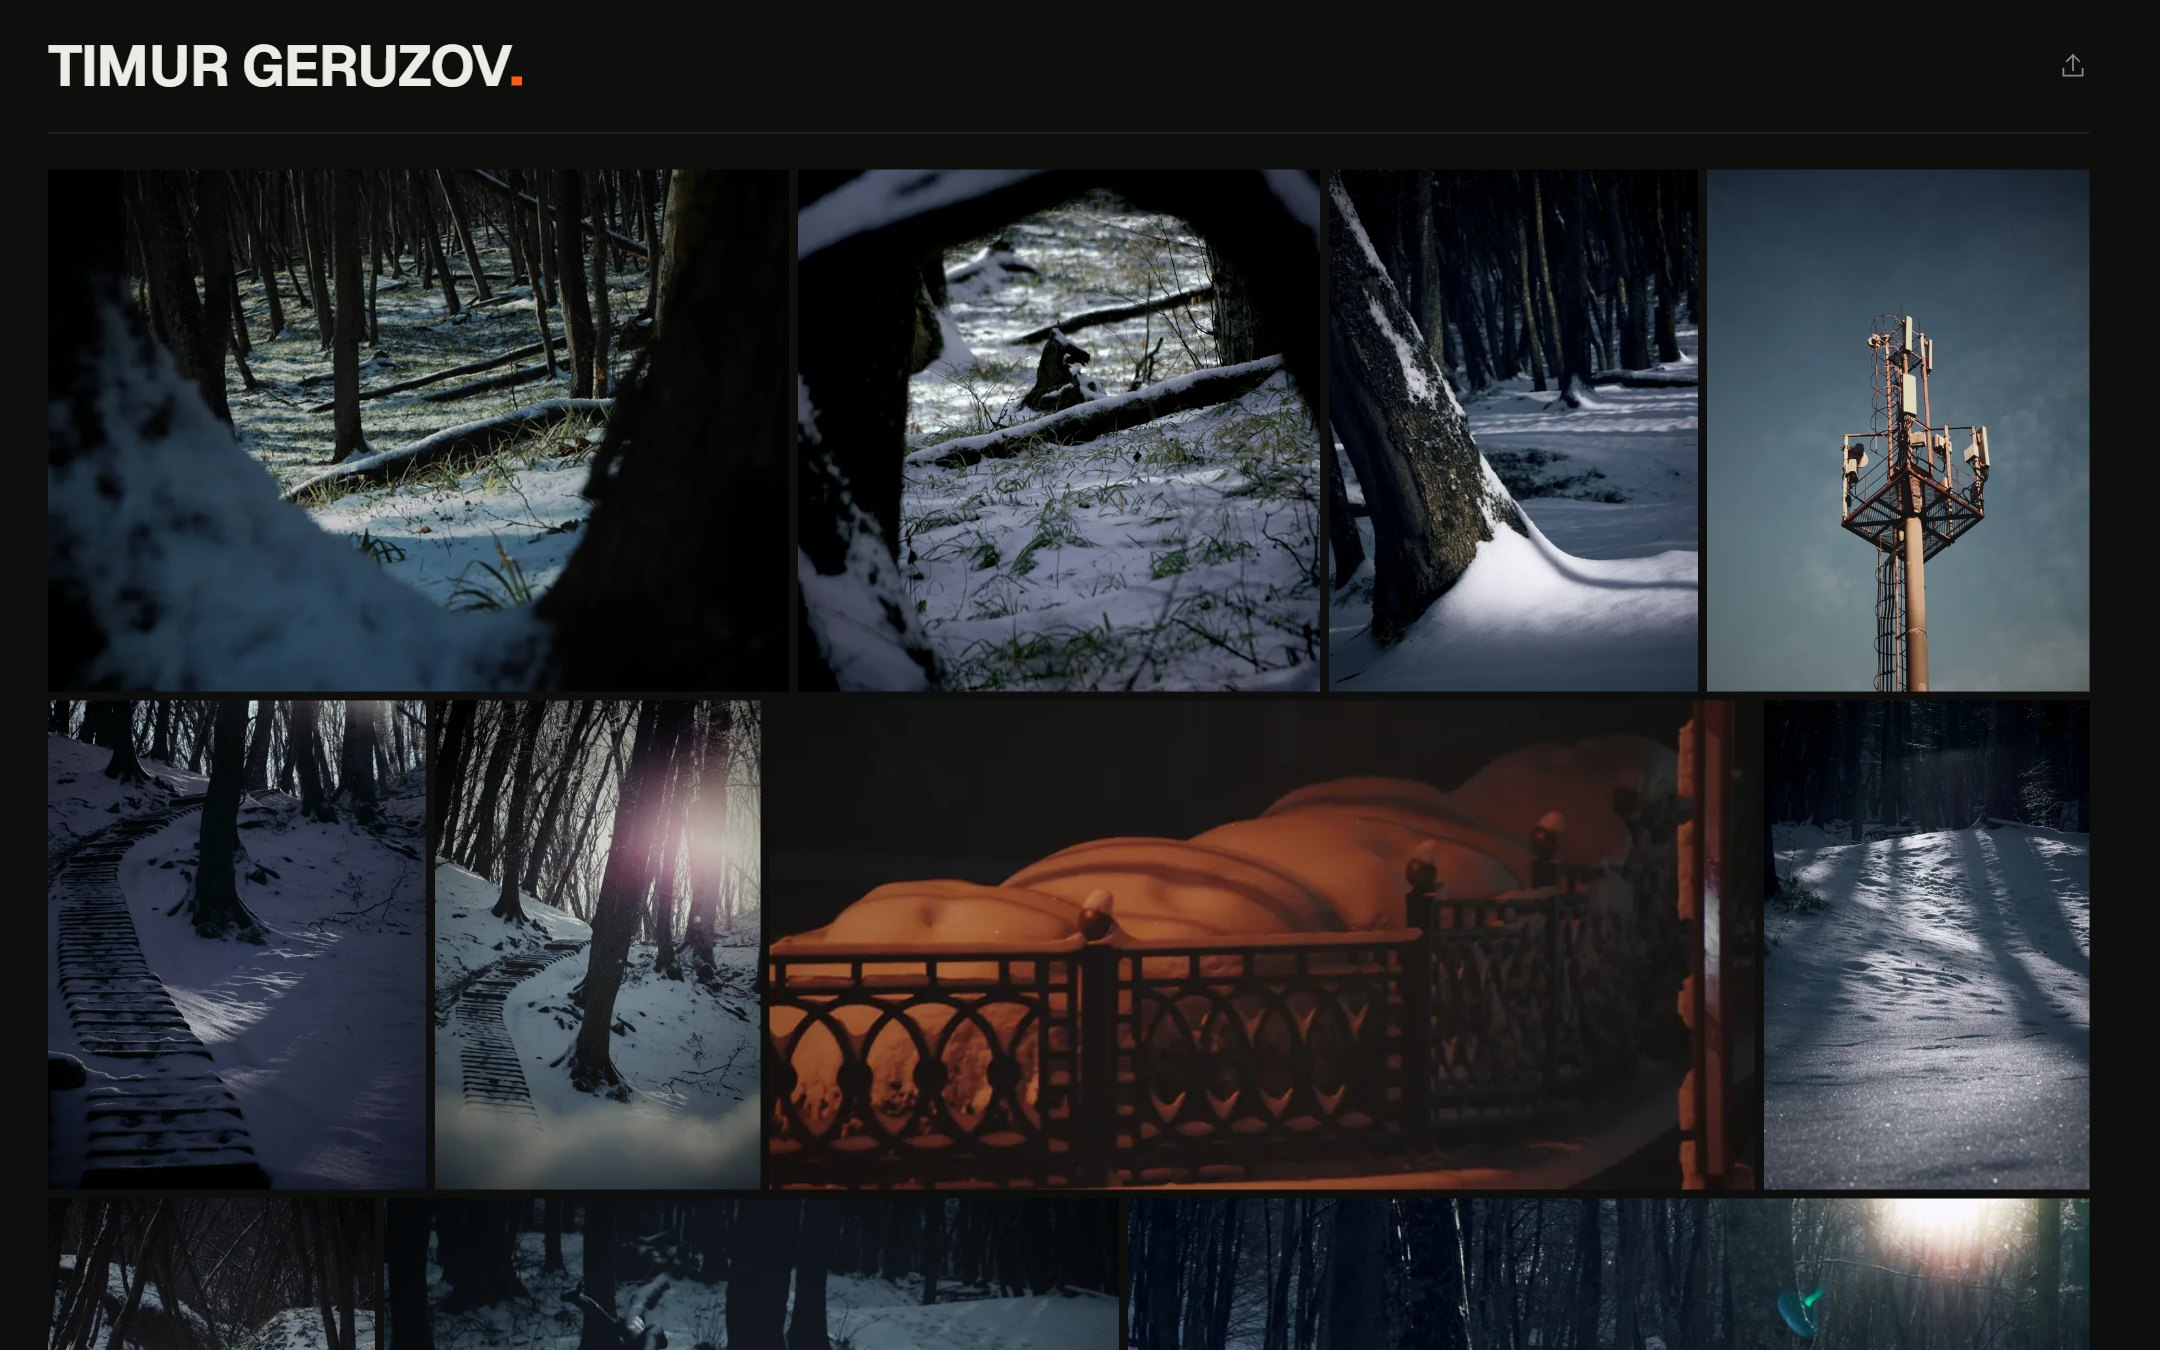
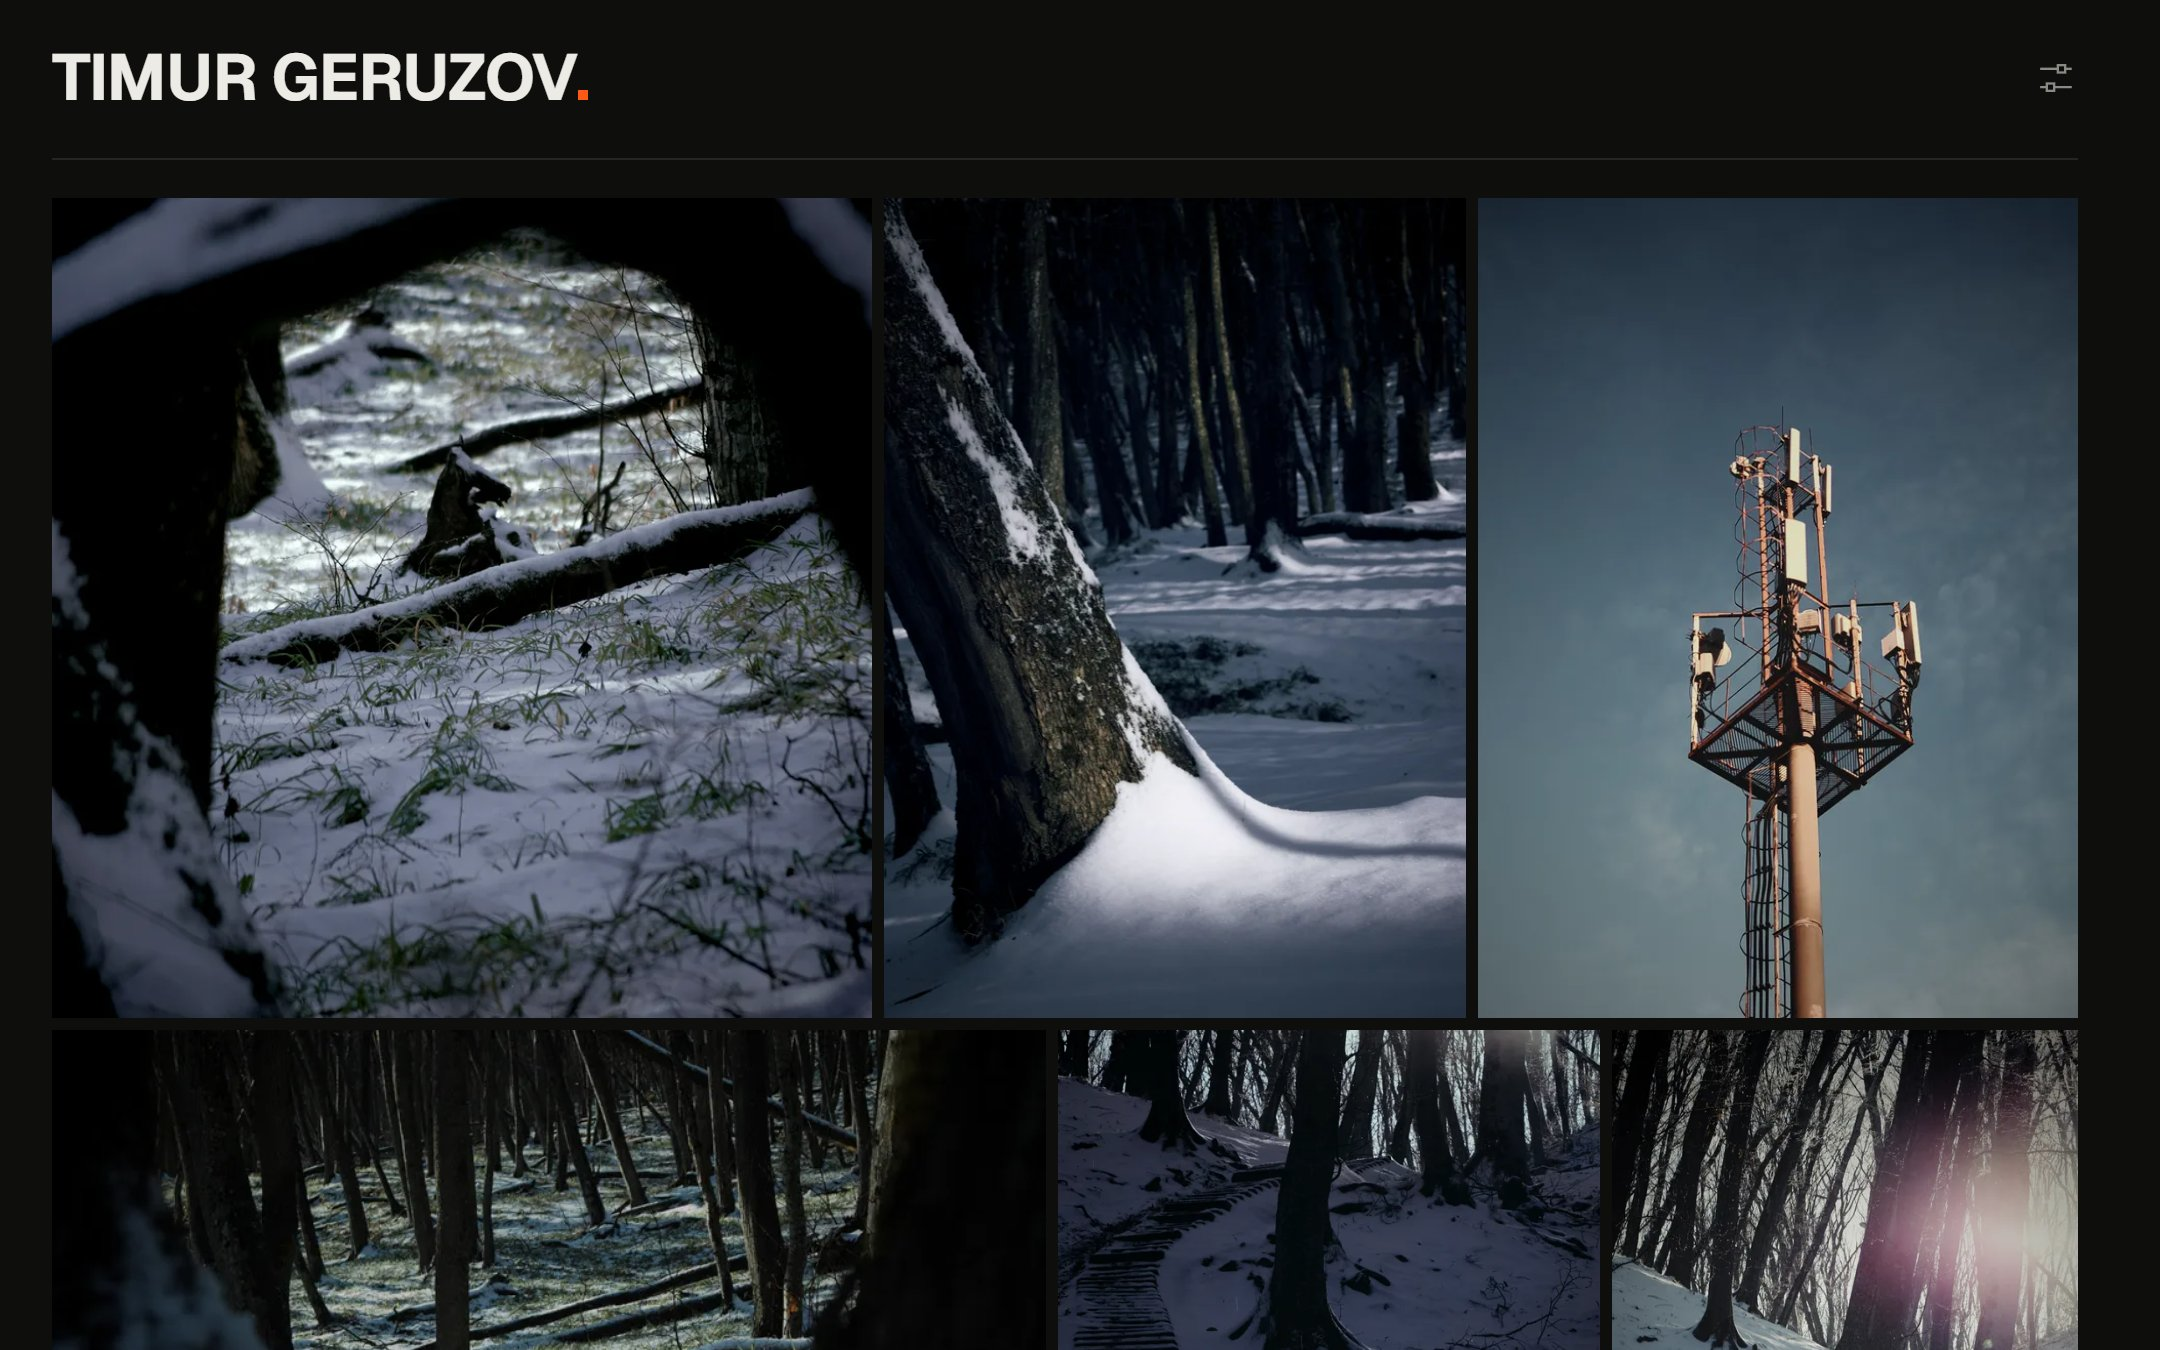
docs(readme): fresh screenshots with the management section, release 0.7.2
- gallery.jpg, lightbox.jpg and mobile.jpg are retaken on the current version: the header shows the new settings icon, the cards have no hover line
- upload.jpg shows the upload tab inside the management section, with the same file states as before
- New manage.jpg in "Порядок и удаление": numbered photo squares, two selected, the action buttons above the grid

diff --git a/README.md b/README.md
@@ -4,7 +4,7 @@
 
 **Персональная фотогалерея на Django**
 
-![Version](https://img.shields.io/badge/version-0.7.1-blue?style=flat-square)
+![Version](https://img.shields.io/badge/version-0.7.2-blue?style=flat-square)
 [![License: GPL-3.0-only](https://img.shields.io/badge/License-GPL--3.0--only-blue?style=flat-square)](./LICENSE)
 
 </div>
@@ -12,7 +12,7 @@
 Я сделал эту галерею для своих фотографий: без ленты соцсетей, рекламы и чужого оформления. Снимки идут сплошной сеткой ровными строками, открываются на весь экран, а интерфейс вокруг них держится тихо и не спорит с фото. Всё, что нужно для работы, - Docker: одна команда поднимает базу и сайт.
 
 <p align="center">
-  <img src="docs/images/gallery.jpg" width="820" alt="Галерея на компьютере: имя в шапке и сетка из снимков одной высоты в каждой строке">
+  <img src="docs/images/gallery.jpg" width="820" alt="Галерея на компьютере: имя в шапке, иконка управления справа и сетка из снимков одной высоты в каждой строке">
 </p>
 
 Сетка раскладывает фото строками одной высоты, слева направо: новые снимки встают первыми, а порядок можно поменять в разделе управления. Новые снимки подгружаются по 12 штук при прокрутке, и уже показанные фото при этом не сдвигаются: меняется только последняя строка. На телефоне в строке по два снимка.
@@ -53,7 +53,7 @@ docker compose up --build
 | Закрыть | <kbd>Esc</kbd>, крестик или клик по фону | свайп вниз |
 
 <p align="center">
-  <img src="docs/images/lightbox.jpg" width="560" alt="Просмотр фото: снимок на весь экран, счётчик 04 / 24 и едва заметные крестик и стрелки">
+  <img src="docs/images/lightbox.jpg" width="560" alt="Просмотр фото: снимок на весь экран, счётчик 04 / 12 и едва заметные крестик и стрелки">
   &nbsp;&nbsp;
   <img src="docs/images/mobile.jpg" width="162" alt="Галерея на телефоне: по два снимка в строке">
 </p>
@@ -69,6 +69,10 @@ docker compose up --build
 * Порядок сохраняется сам через полсекунды после изменения, статус виден справа над сеткой.
 * С клавиатуры: стрелки переводят фокус, <kbd>Alt</kbd> со стрелками двигает фото, пробел выбирает, <kbd>Delete</kbd> удаляет выбранные, <kbd>Esc</kbd> снимает выбор.
 
+<p align="center">
+  <img src="docs/images/manage.jpg" width="820" alt="Вкладка Фото в разделе управления: пронумерованные квадраты снимков, два выбраны, над сеткой кнопки В начало, В конец, Снять выбор и Удалить">
+</p>
+
 ### Загрузка
 Во вкладке `Загрузка` файлы можно выбрать или перетащить в рамку, подходят JPEG, PNG и WebP до 100 МБ каждый. Лишний файл убирается крестиком на его превью.
 
@@ -82,7 +86,7 @@ docker compose up --build
 Приглушённые превью ждут своей очереди. Если всё прошло успешно, галерея откроется сама, а если часть файлов не загрузилась, на странице останутся только они и кнопка `Повторить`.
 
 <p align="center">
-  <img src="docs/images/upload.jpg" width="820" alt="Страница загрузки: превью с состояниями Готово, Уже есть, Обработка, 64% и в очереди">
+  <img src="docs/images/upload.jpg" width="820" alt="Вкладка Загрузка в разделе управления: превью с состояниями Готово, Уже есть, Обработка, 64% и в очереди">
 </p>
 
 ### Админка
